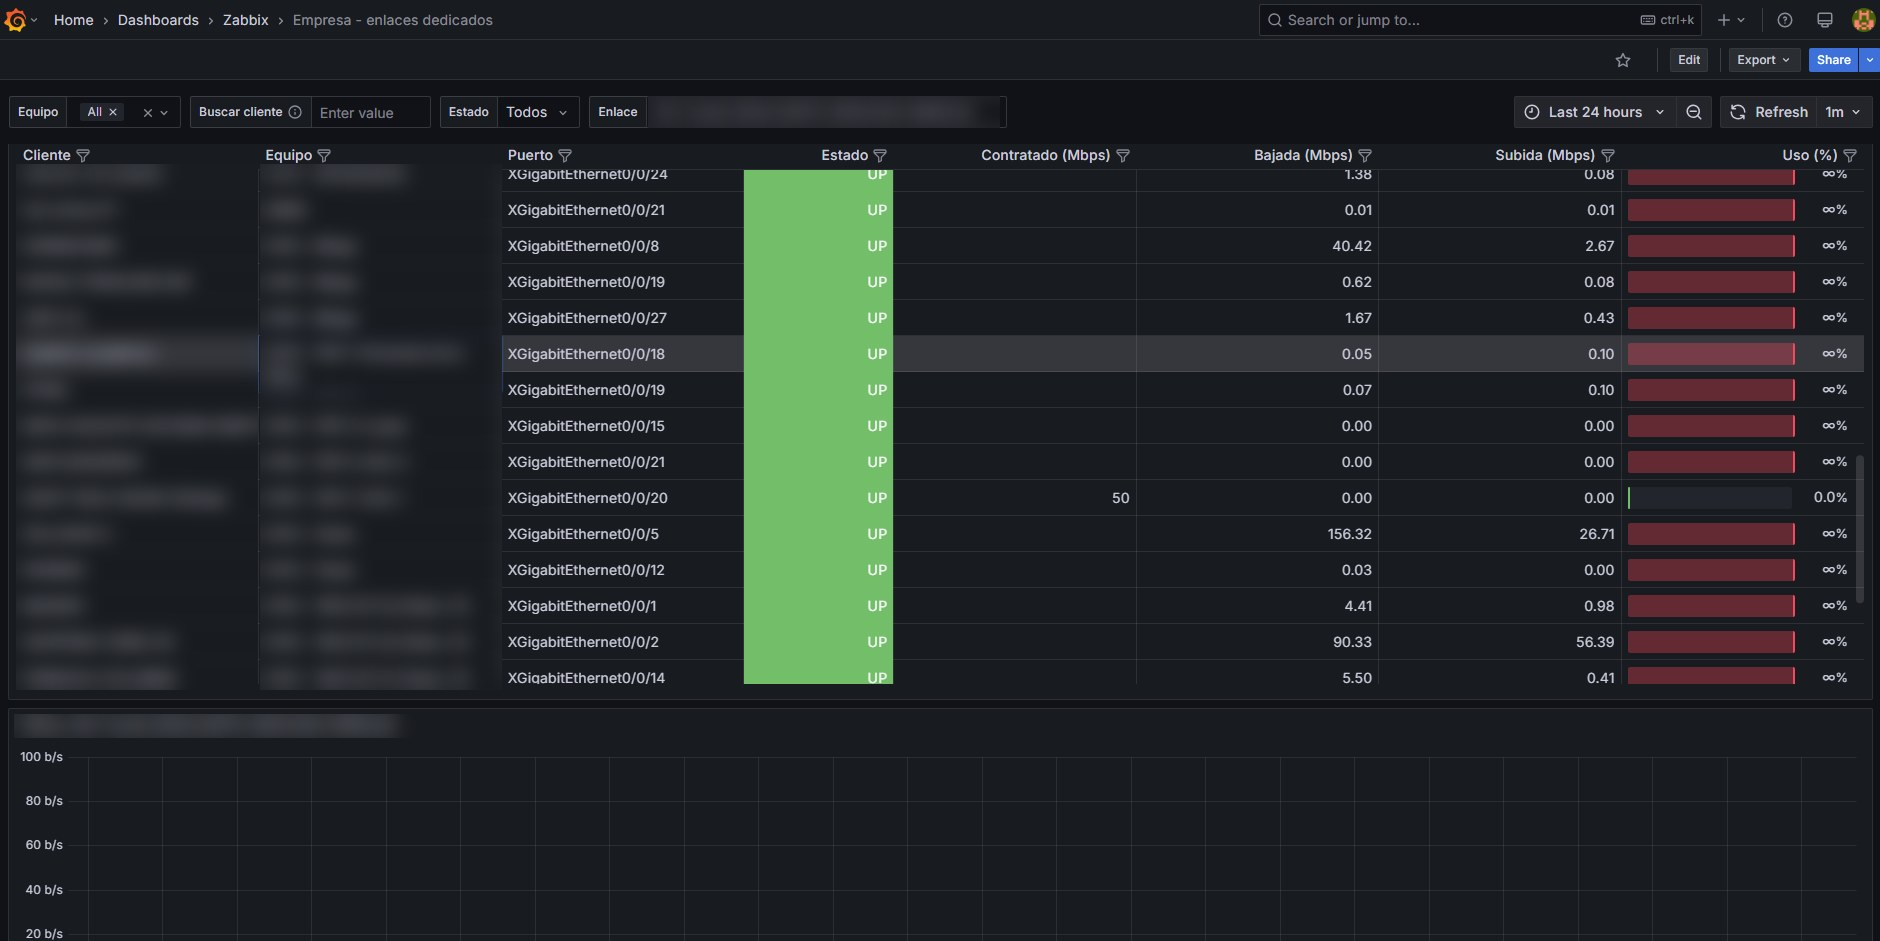
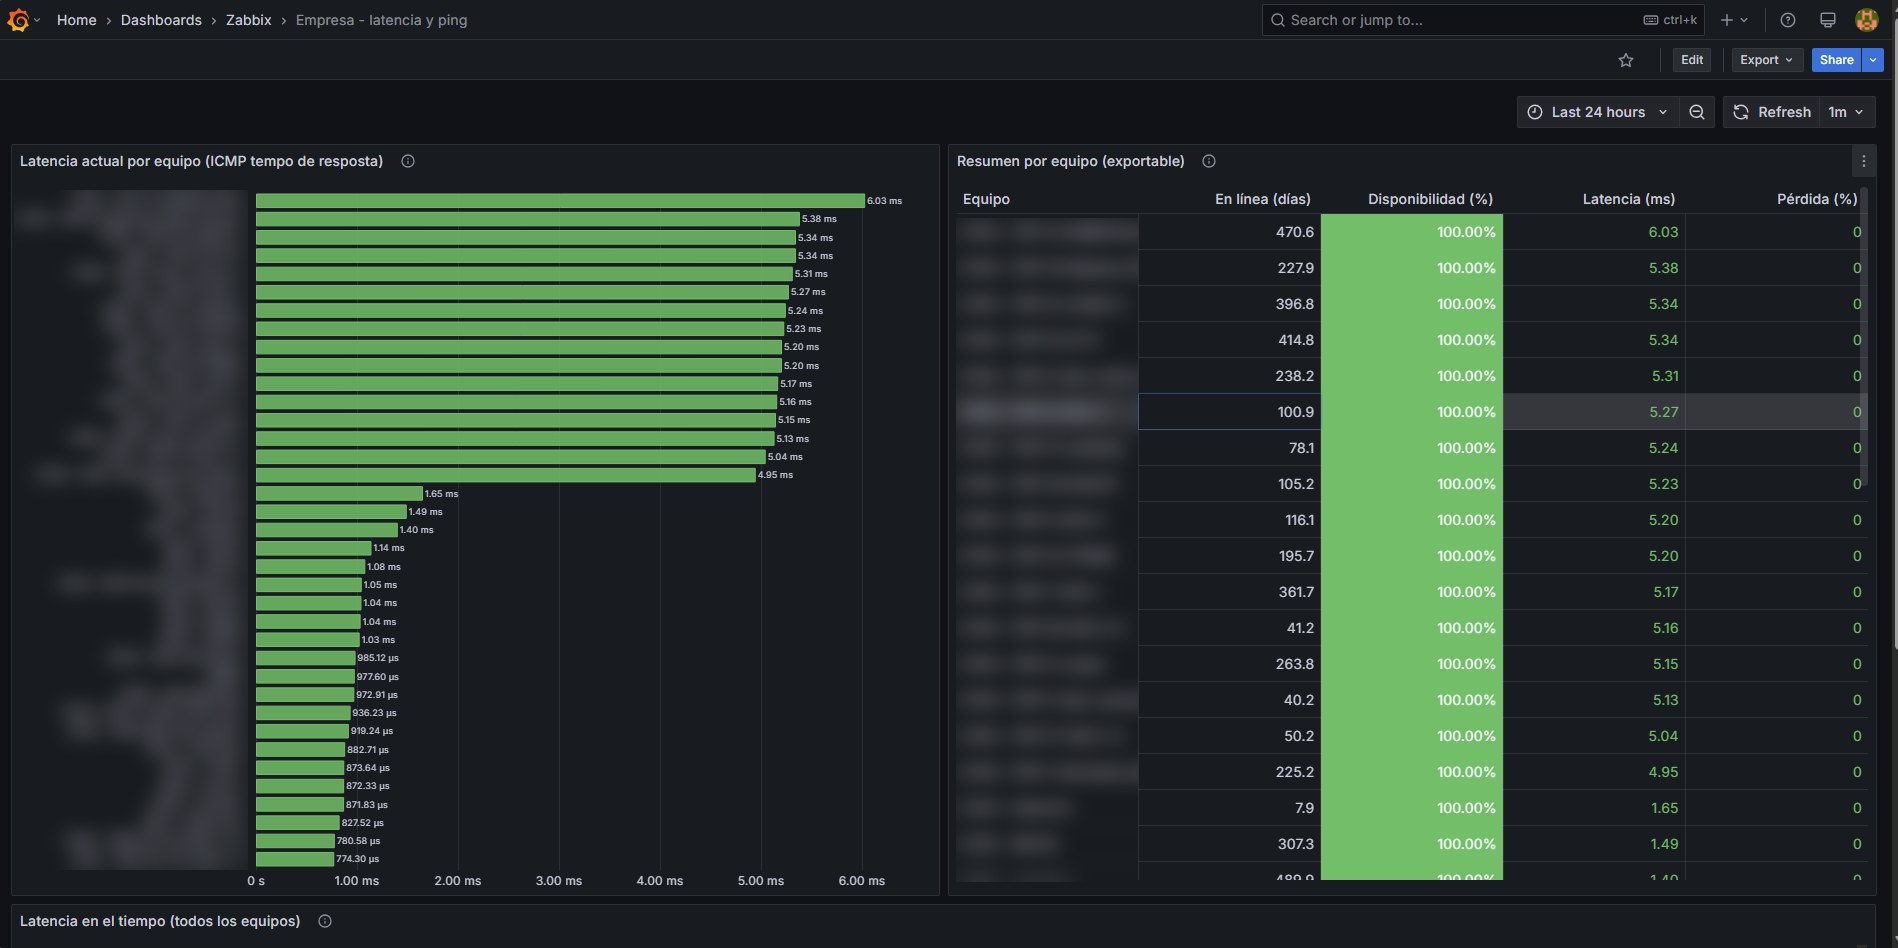
Actualiza el proyecto 06 con el dashboard de latencia y ping
Reemplaza la captura por la de latencia y ping (nombres de equipos
difuminados) y amplía la descripción con el monitoreo de enlaces
dedicados y de potencia óptica.

diff --git a/projects.html b/projects.html
@@ -191,23 +191,30 @@
                             <!-- Project Card 6-->
                             <article class="glass-card project-card reverse reveal">
                                 <div class="project-media">
-                                    <img src="imagenes/proyecto6.jpg" alt="Dashboard de Grafana con datos de Zabbix mostrando el estado y tráfico de enlaces dedicados" loading="lazy" style="object-position: 60% top;" />
+                                    <img src="imagenes/proyecto6.jpg" alt="Dashboard de Grafana con datos de Zabbix mostrando la latencia por equipo, disponibilidad y pérdida de paquetes" loading="lazy" style="object-position: left top;" />
                                     <span class="project-badge"><i class="bi bi-graph-up-arrow me-1"></i>Monitoreo</span>
                                 </div>
                                 <div class="project-body">
                                     <span class="project-num">PROYECTO 06</span>
-                                    <h2>Dashboards de monitoreo de enlaces dedicados con Grafana y Zabbix</h2>
+                                    <h2>Dashboards de monitoreo de red con Grafana y Zabbix</h2>
                                     <p>
-                                        Tableros de monitoreo en Grafana construidos a partir de los accesos a Zabbix, para seguir en tiempo real los enlaces dedicados de clientes corporativos desde un solo lugar.
+                                        Conjunto de tableros en Grafana construidos a partir de los accesos a Zabbix, para supervisar en tiempo real la red de la empresa desde un solo lugar.
                                     </p>
                                     <p>
-                                        Cada enlace muestra el cliente, el equipo y el puerto donde está conectado, su estado (UP/DOWN), el ancho de banda contratado, el tráfico de bajada y subida en Mbps y el porcentaje de uso con indicadores visuales. Se puede filtrar por equipo, cliente, estado o enlace, ver el gráfico de tráfico histórico de cada enlace por rango de tiempo y el tablero se actualiza automáticamente cada minuto.
+                                        <strong>Latencia y ping:</strong> latencia ICMP actual de cada equipo y POP, ranking visual de tiempos de respuesta, días en línea, porcentaje de disponibilidad y pérdida de paquetes, con un resumen exportable y la evolución de la latencia en el tiempo.
+                                    </p>
+                                    <p>
+                                        <strong>Enlaces dedicados:</strong> estado (UP/DOWN), ancho de banda contratado, tráfico de bajada y subida y porcentaje de uso de cada enlace de clientes corporativos, con filtros por equipo, cliente, estado o enlace y gráfico de tráfico histórico.
+                                    </p>
+                                    <p>
+                                        <strong>Potencia óptica:</strong> seguimiento de los niveles de potencia de los enlaces de fibra para detectar degradaciones antes de que afecten el servicio. Todos los tableros se actualizan automáticamente cada minuto.
                                     </p>
                                     <ul class="tags">
                                         <li>Grafana</li>
                                         <li>Zabbix</li>
                                         <li>Monitoreo de redes</li>
-                                        <li>Dashboards</li>
+                                        <li>Latencia / ICMP</li>
+                                        <li>Potencia óptica</li>
                                         <li>Enlaces dedicados</li>
                                     </ul>
                                 </div>
